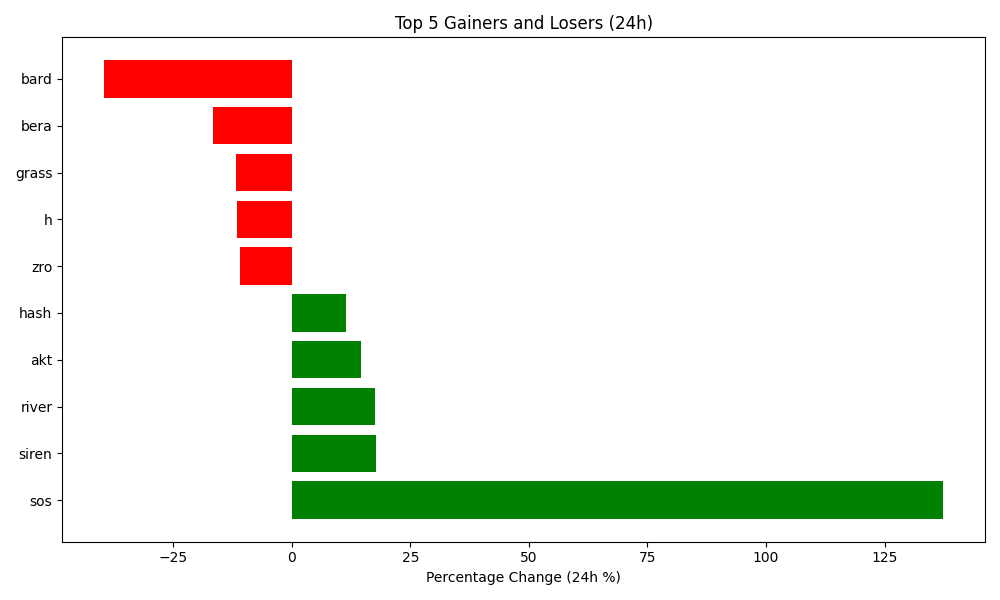
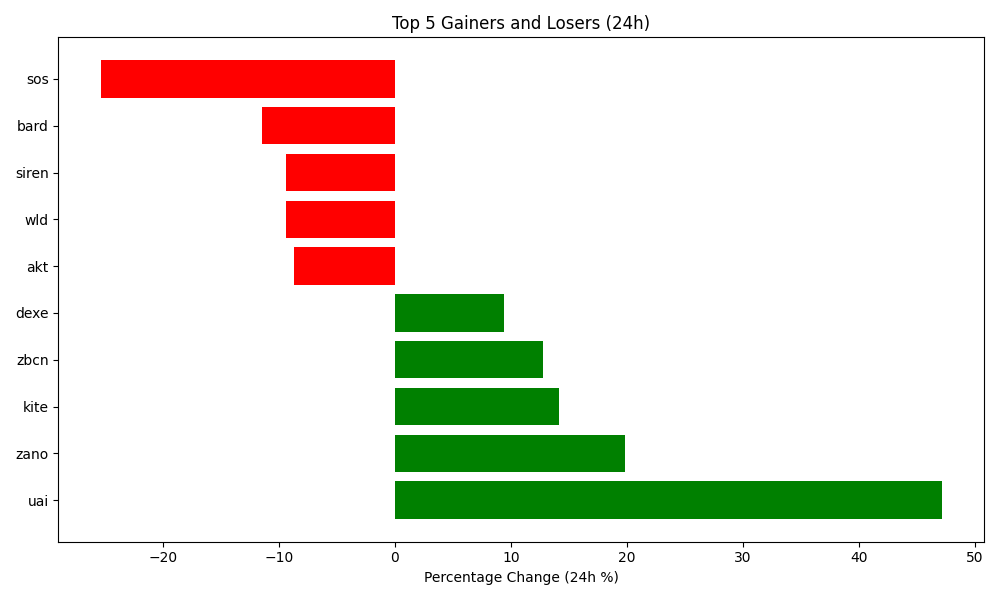
Auto-update crypto data and plot

diff --git a/README.md b/README.md
@@ -4,7 +4,7 @@ Author: Hitesh Agrawal
 This repository automatically tracks the top 5 gaining, top 5 losing, and top 5 highest volume cryptocurrencies in the last 24 hours using the CoinGecko API, Python, Matplotlib, and GitHub Actions updates the below content everyday at midnight.
 
 <!-- START_DYNAMIC_CONTENT -->
-Last updated: 2026-03-19 01:29 UTC
+Last updated: 2026-03-20 01:24 UTC
 
 ![Crypto Movers Plot](crypto_movers_plot.png)
 
@@ -12,33 +12,33 @@ Last updated: 2026-03-19 01:29 UTC
 
 | Rank | Coin | Price Change (24h %) | Volume (USD) | Current Price (USD) |
 | :--: | :--: | :------------------: | :----------: | :-----------------: |
-| 1 | sos | 137.31% | $649,402 | $0.0015 |
-| 2 | siren | 17.74% | $30,231,541 | $0.8861 |
-| 3 | river | 17.66% | $58,296,877 | $26.3300 |
-| 4 | akt | 14.60% | $70,347,499 | $0.5511 |
-| 5 | hash | 11.40% | $115,940 | $0.0144 |
+| 1 | uai | 47.22% | $9,769,260 | $0.6008 |
+| 2 | zano | 19.83% | $2,190,604 | $8.6900 |
+| 3 | kite | 14.17% | $214,949,700 | $0.2143 |
+| 4 | zbcn | 12.75% | $11,256,757 | $0.0023 |
+| 5 | dexe | 9.41% | $21,550,192 | $6.2100 |
 
 
 **👇 Top 5 Losers (24h)**
 
 | Rank | Coin | Price Change (24h %) | Volume (USD) | Current Price (USD) |
 | :--: | :--: | :------------------: | :----------: | :-----------------: |
-| 1 | bard | -39.52% | $331,984,895 | $0.6505 |
-| 2 | bera | -16.51% | $30,033,177 | $0.5456 |
-| 3 | grass | -11.81% | $28,299,000 | $0.3660 |
-| 4 | h | -11.48% | $19,569,446 | $0.1008 |
-| 5 | zro | -10.92% | $81,772,140 | $2.1000 |
+| 1 | sos | -25.38% | $268,158 | $0.0011 |
+| 2 | bard | -11.48% | $113,528,138 | $0.5725 |
+| 3 | siren | -9.40% | $22,775,216 | $0.8046 |
+| 4 | wld | -9.34% | $194,860,484 | $0.3323 |
+| 5 | akt | -8.73% | $20,268,080 | $0.5010 |
 
 
 **💎 Top 5 by Trade Volume (24h)**
 
 | Rank | Coin | Price Change (24h %) | Volume (USD) | Current Price (USD) |
 | :--: | :--: | :------------------: | :----------: | :-----------------: |
-| 1 | usdt | -0.02% | $79,248,989,983 | $1.0000 |
-| 2 | btc | -4.06% | $47,173,137,841 | $71,041.0000 |
-| 3 | eth | -5.96% | $24,514,362,539 | $2,192.0100 |
-| 4 | usdc | 0.01% | $4,429,859,511 | $1.0000 |
-| 5 | sol | -4.91% | $4,075,039,477 | $90.0800 |
+| 1 | usdt | -0.00% | $77,121,881,977 | $1.0000 |
+| 2 | btc | -0.82% | $45,831,048,452 | $70,404.0000 |
+| 3 | eth | -1.81% | $23,133,684,120 | $2,149.4300 |
+| 4 | usdc | -0.01% | $10,692,205,320 | $0.9999 |
+| 5 | sol | -0.62% | $3,629,472,774 | $89.5300 |
 
 
 <!-- END_DYNAMIC_CONTENT -->
